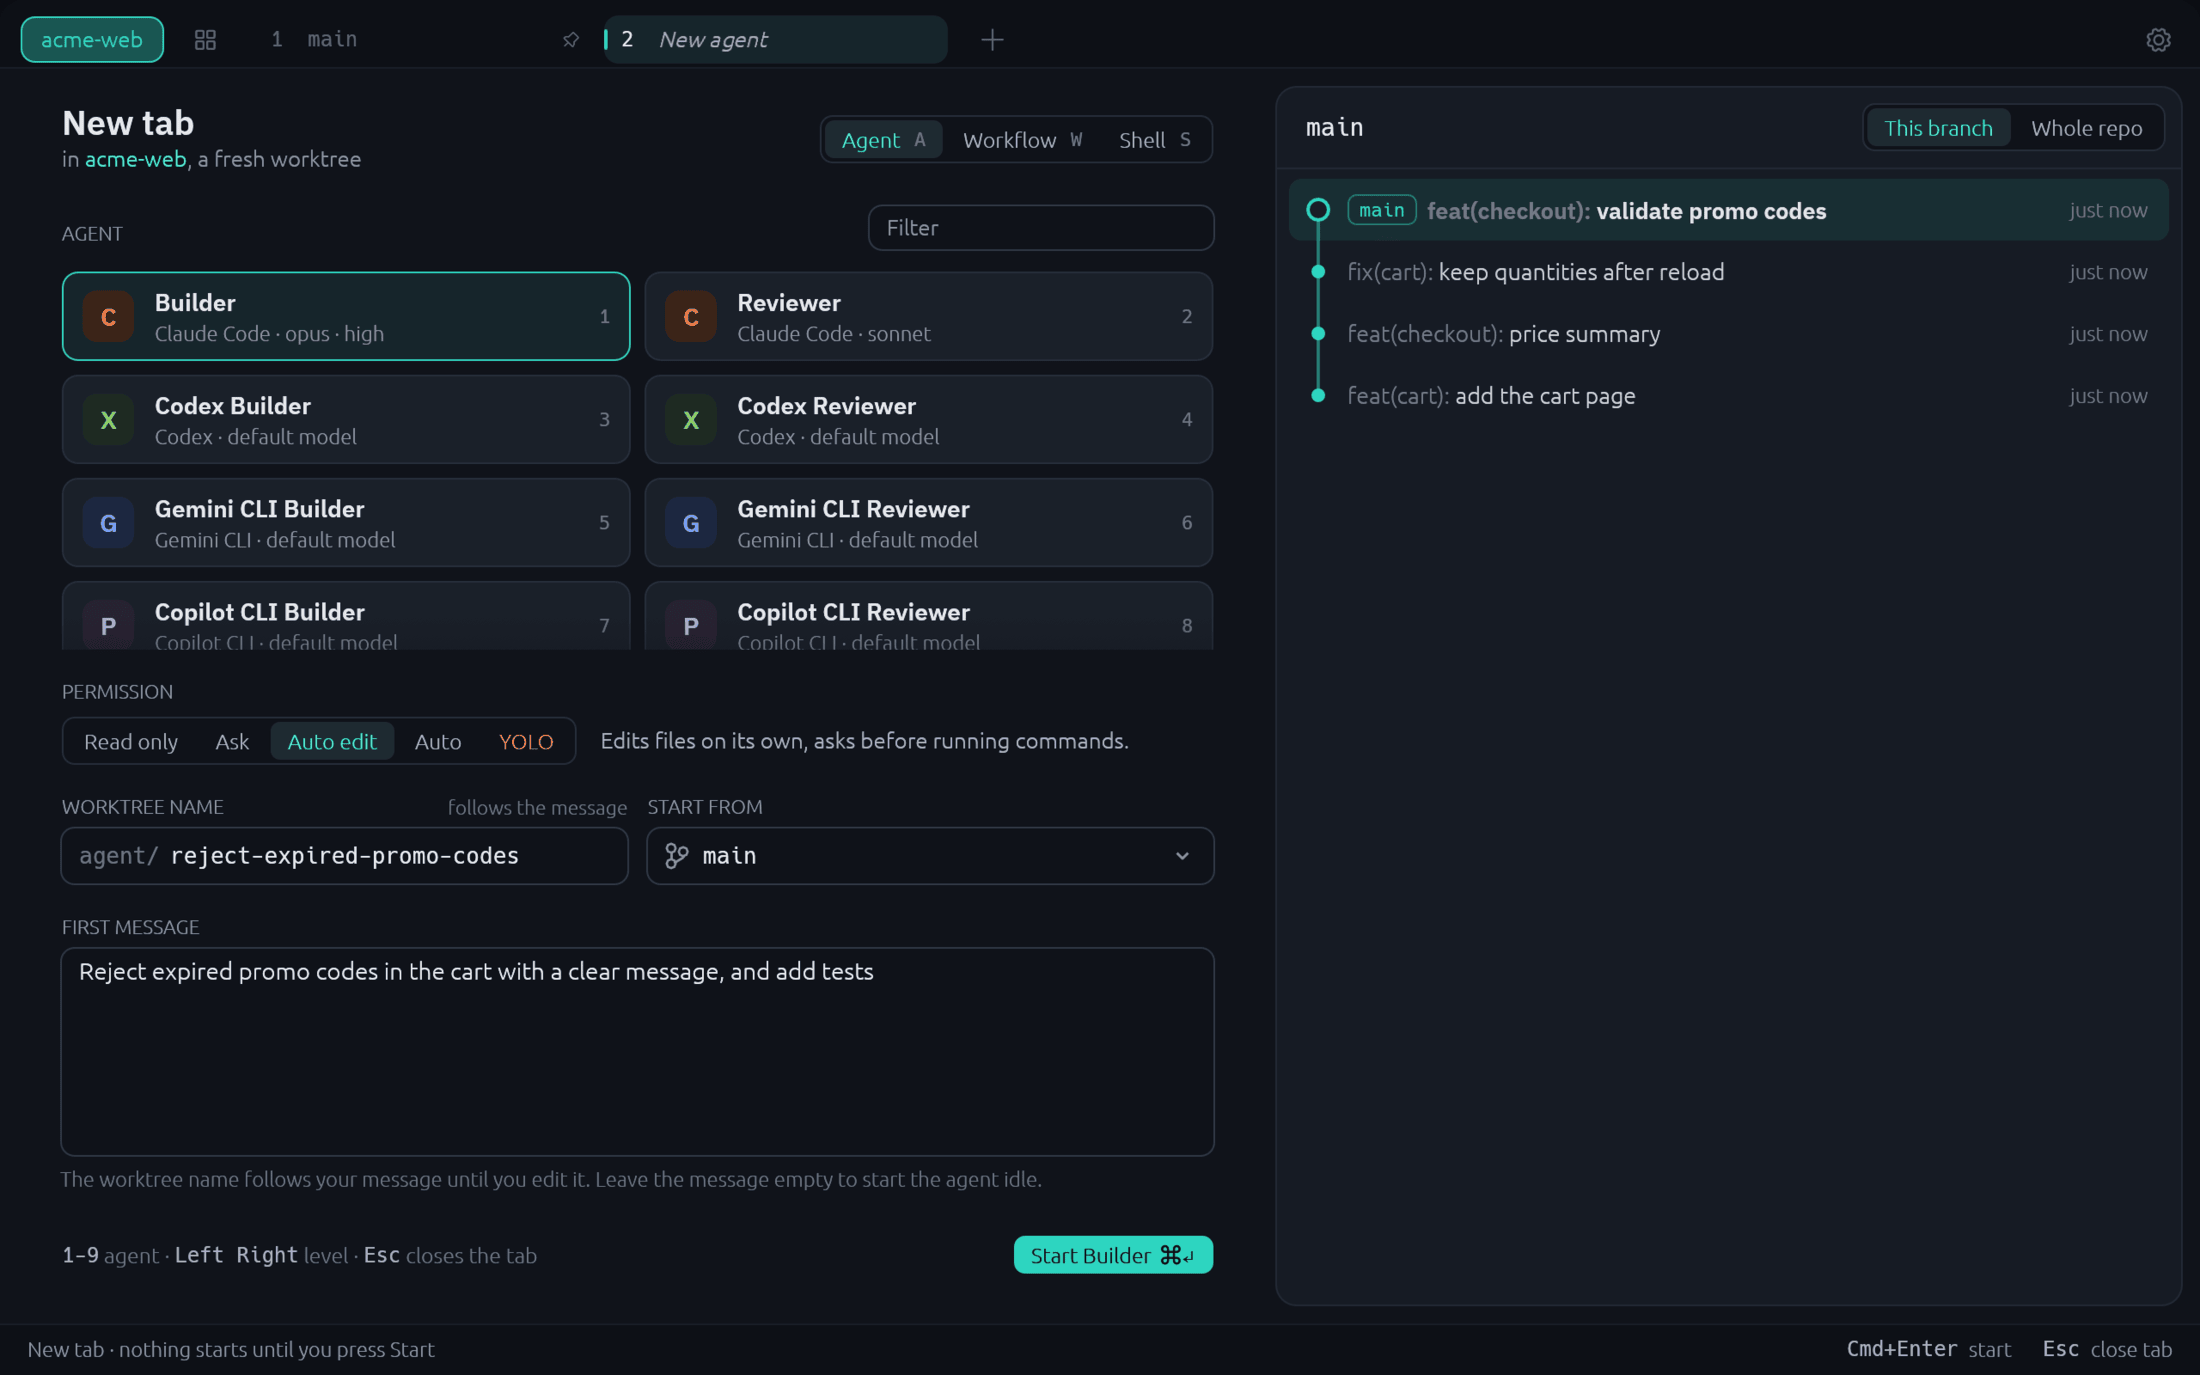
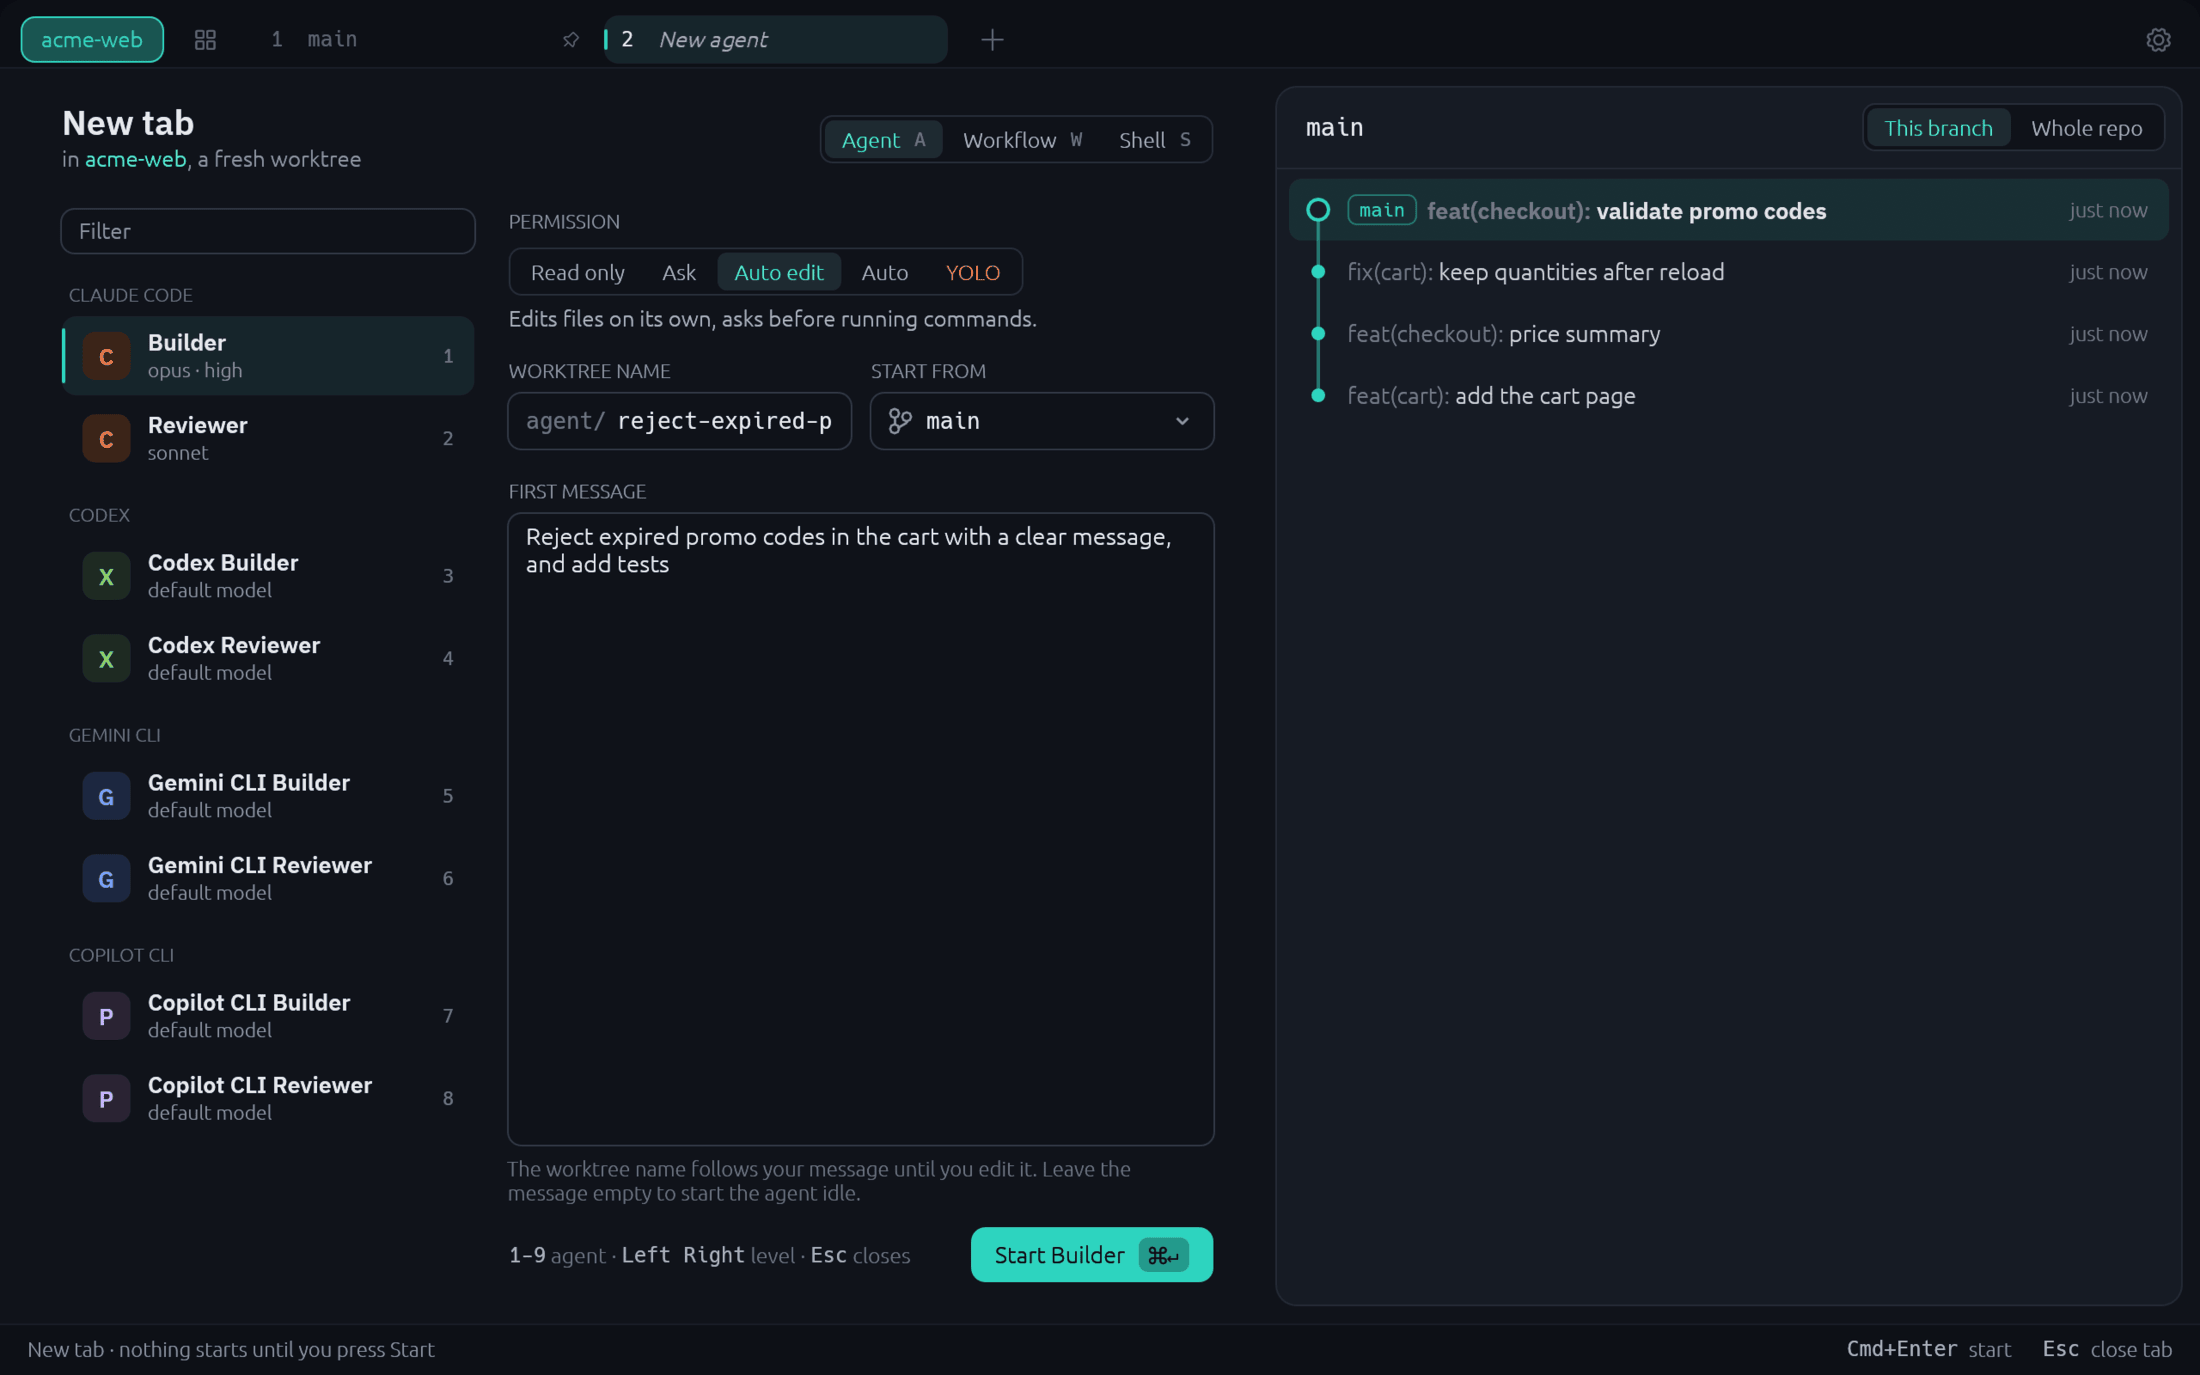
chore: v0.1.11
The site's new tab screenshot shows the agent lane (shot-newtab.png 103535 B to 98573 B, pngquant and oxipng, 49.5 dB PSNR against the resized capture).

diff --git a/site/index.html b/site/index.html
@@ -47,7 +47,7 @@
 
 <nav><div class="wrap">
   <a class="brand" href="#top"><img src="icon.svg" alt="" width="30" height="30">tidewatch</a>
-  <span class="badge">v0.1.10</span>
+  <span class="badge">v0.1.11</span>
   <div class="navlinks">
     <a href="#features">Features</a>
     <a href="#install">Install</a>
@@ -57,7 +57,7 @@
 
 <header class="hero" id="top"><div class="wrap">
   <img class="mascot" src="mascot/mascot-hero-animated.svg" width="400" height="440" alt="Tidewatch's mascot, a shoggoth in a smiley mask">
-  <a class="pill" href="https://github.com/Hobo-Ware/tidewatch/releases/latest"><b>New</b> v0.1.10: a new tab is the form, with room for a name, a branch and your first message.</a>
+  <a class="pill" href="https://github.com/Hobo-Ware/tidewatch/releases/latest"><b>New</b> v0.1.11: every agent keeps a live progress ledger, with what is coming up across tabs.</a>
   <h1>AI agents side by side,<br><span class="teal">one worktree each.</span></h1>
   <p class="lede">Tidewatch is a desktop app for macOS and Linux that runs AI coding agents in one window per git repo. Every tab is its own git worktree, a separate checkout on its own branch, so several agents can work on the same repo without touching each other's files. You watch them, read what they did, comment on their diffs and decide what ships.</p>
   <div class="install"><span class="p">$</span><span class="txt">brew install hobo-ware/tap/tidewatch</span><button class="copy" type="button" data-copy="brew install hobo-ware/tap/tidewatch">Copy</button></div>
@@ -134,7 +134,7 @@
       <p>A new tab is the form itself: an agent, a workflow or a plain shell. Pick a profile and its permission level, from read only up to a YOLO level that asks first, name the worktree and the branch it starts from, and write the first message. Start, and the agent begins with it.</p>
       <ul><li>Claude Code, Codex, Gemini CLI and Copilot CLI</li><li>A fresh worktree and branch for every tab</li><li>Tidewatch pushes for you, on approval</li></ul>
     </div>
-    <div class="shot"><img src="shot-newtab.png" width="2200" height="1375" loading="lazy" alt="A new tab as a form: agent profiles two per row, the five permission levels, the worktree name and base branch, and the first message, with the branch history on the right"></div>
+    <div class="shot"><img src="shot-newtab.png" width="2200" height="1375" loading="lazy" alt="A new tab as a form: agent profiles in a lane on the left, the five permission levels, the worktree name and base branch, and the first message, with the branch history on the right"></div>
   </div>
 
   <div class="row flip">

diff --git a/LEDGER.md b/LEDGER.md
@@ -4,13 +4,14 @@ A running log of what got done, newest first. The plan lives in [PLAN.md](PLAN.m
 
 ## Status
 
-- **Current milestone:** v0.1.10: a new tab is the form (agent or workflow, two per row, worktree name and base branch, the first message as the agent's opening prompt).
-- **Done:** Phases 0 to 10; v0.1.0 to v0.1.10 released (Homebrew cask, Linux tarball and AppImage); the K mark identity; the showcase page.
+- **Current milestone:** v0.1.11: every agent keeps a live progress ledger (Progress beside History, rings on tabs and Overview cards, Coming up across tabs, due-today cards), the new tab form with an agent lane, and one button system.
+- **Done:** Phases 0 to 10; v0.1.0 to v0.1.11 released (Homebrew cask, Linux tarball and AppImage); the K mark identity; the showcase page.
 - **Also:** six habit workflows are built in, and Build workflow from this session (palette; the agent proposes a workflow that opens as an unsaved draft), 2026-10-16. Restart to update keeps every shell and agent running (live handoff, 2026-10-15). The receiving side of stdusk's "Move tabs to Tidewatch" is built (#49).
 - **Next:** the diff widgets go teal (the graph already does on the side layout); commit messages that truncate early in the narrow tree; the divider position saved between runs; the site hero screenshot; the owner's live checks; Linux desktop runs.
 
 ## 2026-10-18
 
+- **v0.1.11.** Ships the agent lane and button system (#76), the progress ledger engine (#77) and its screens (#78).
 - **The progress screens (branch `progress-screens`).** The owner: "Okay can the board please be prettier / sexyer there is a lot of text I want to relieve the burden of infinite text so lets see maybe better formatted less of it, more subtle where not important UX the shit out of it please", then of the redrawn boards: "Yeees now we're talking love the new screens!". The engine's ledger is now drawn: the History card gets a Progress | History control on agent tabs that have a ledger (History until one arrives, then Progress; the choice is kept per tab while the app runs) with a ring (done of total, skipped out; teal working, green done, red blocked, amber waiting), the goal, a state line, a bar per phase, the question with an Answer button (Reader in front, reply box focused), the current phase's rows (eight, then Show all) and three tags that open verified, not verified and decisions in place. A small ring sits at the right end of the agent's tab. The Overview shows each agent as a card (ring, name, profile, one line, one tag; grouping and needs-you-first as before), then Coming up (a timeline: NOW, dates with days under them, LATER; on and parked dashed, items for you amber with Decide) and Checklist (the active template's phases as chips, Edit opens its file). An item that is due shows a Due today card above its tab's reply box (Ask <Profile> to start, only while the agent is idle; Snooze until tomorrow) and the desktop is told once per item per day while the window is away. A click on a card of a closed tab reopens it through the restore path.
   Decisions: Snooze is kept in memory only, because the schedule index has no field for it (a restart brings a snoozed item back the same day); "today" is the UTC date, as in the engine; a due item is also offered when overdue (`3 d late`); the Coming up card of a closed tab shows no step segments because the index keeps only the item's text; the notice is never posted under a screenshot run; the engine was not touched.
   Numbers: 2,170 tests passing, up from 2,090 (80 new: the view models for ring, bars, rows, tags, cards and the tab tip, the timeline's blocks and labels, the due and snooze rules, the ask message, the checklist sources, the reopen window, and headless frames for the Progress | History switch, Answer, Show all, a tag, Edit, Decide, Open, Ask and Snooze and for text that never overlaps at any card width); fmt, clippy `-D warnings` and `cargo test --workspace` clean on macOS. Checked with `TIDEWATCH_SCREENSHOT` in a throwaway home and repo with a stand-in `claude` and ledgers written into each tab's `progress.md`: the panel done, working, blocked, waiting and with a question, at 1440x900 and 1280x720 and at the narrowest card width, the tab rings, the Overview, Coming up, the checklist row and the due card; a closed tab reopened by `TIDEWATCH_DEV_OPEN_SCHEDULED` through the real restore path.
